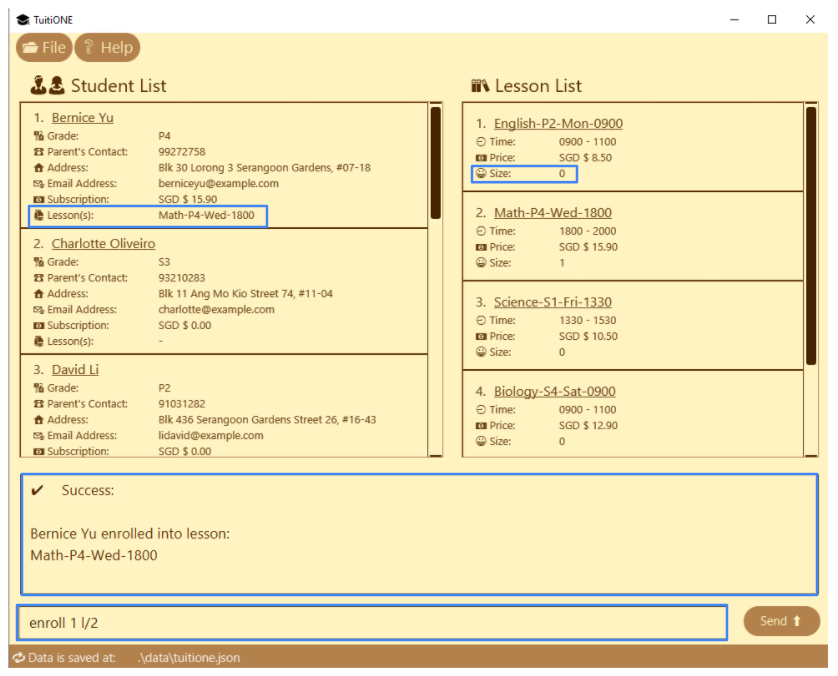
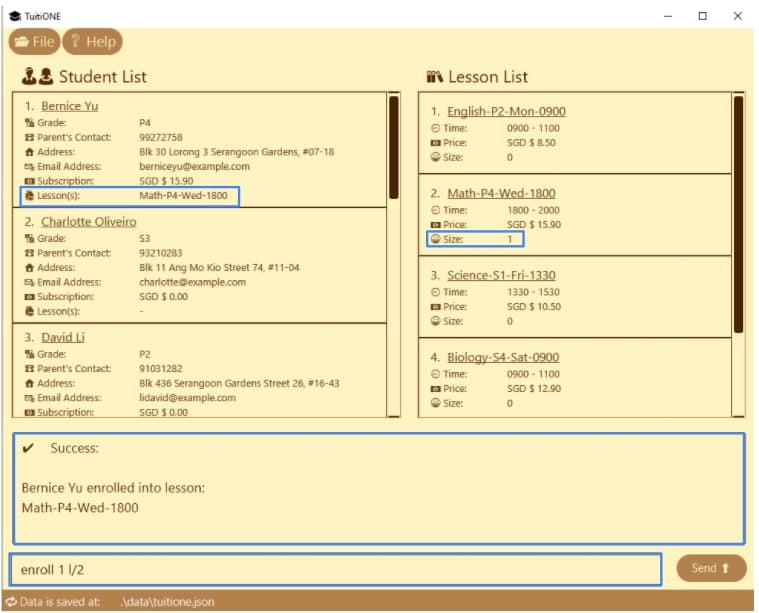
Image update and label

Changed region(s): [[0.0, 0.0, 1.0, 1.0]]

diff --git a/docs/UserGuide.md b/docs/UserGuide.md
@@ -38,7 +38,7 @@ If you are interested, jump to [Quick start](#quick-start) to learn how to start
   _Note how the app contains some sample data_.<br>
 
    ![Ui](images/Ui.png)<br>
-   _Image: **TuitiONE** upon loading for the first time._<br>
+   <center><i>Image: <b>TuitiONE</b> upon loading for the first time.<br></i></center>
 
 6. Type the command in the command box and press Enter to execute it. e.g. typing **`help`** and pressing Enter will open the help window.<br>
 
@@ -113,6 +113,7 @@ The [Command summary](#command-summary) lists a table with all the commands pres
 This section presents the various elements in our **TuitiONE** application.
 
 ![Result of `list`](images/UserGuideImage/default.png)
+<center><i>Image: Layout of <b>TuitiONE</b>.<br></i></center>
 
 **No.** | **Section** | **Description**
 --------|-------------|----------------
@@ -123,6 +124,8 @@ This section presents the various elements in our **TuitiONE** application.
 5 | Command input box | Here is where you type your commands to run in the application.
 6 | Send button | A button that helps submit your input command to run. Using the `Enter`-key on your keyboard after typing in the **Command input box** performs the same job here.
 7 | Storage file indicator | This portion displays the location of your saved **TuitiONE** data file in your device.
+
+<center><i>Table: <b>Legend of TuitiONE</b>.<br></i></center>
 
 ## **Features**
 
@@ -168,6 +171,8 @@ Command Format: `list`
 
 ![Result of `list`](images/UserGuideImage/list.png)
 
+<center><i>Image: Expected output of <code>list</code> command.<br></i></center>
+
 Upon entering the `list` command, both student and lesson panels will be updated to show all the students and lessons present.
 
 #### Filtering of list: `filter`
@@ -196,6 +201,8 @@ Example(s):
 
 ![Result of `filter`](images/UserGuideImage/filter.png)
 
+<center><i>Image: Expected output of <code>filter g/P5 s/Science</code> command.<br></i></center>
+
 ### Managing Students
 
 #### Adding a student: `add`
@@ -217,6 +224,7 @@ Example(s):
 * `add n/Betsy Crowe p/91234567 e/bc@gmail.com a/Bleecker street, block 123, #01-01 g/S5 r/foreign student`
 
 ![Outcome of `add`](images/UserGuideImage/add.png)
+<center><i>Image: Expected output of <code>add</code> command.<br></i></center>
 
 #### Locating students by name: `find`
 
@@ -244,6 +252,7 @@ Example(s):
 * `find alex david` returns `Alex Yeoh`, `David Li`<br>
 
 ![Result of `find alex`](images/UserGuideImage/find.png)
+<center><i>Image: Expected output of <code>find tan</code> command.<br></i></center>
 
 #### Deleting a student : `delete`
 
@@ -268,6 +277,8 @@ Example(s):
 * `find Betsy` followed by `delete 1` deletes the 1st student in the results of the `find` command.
 
 ![Outcome of `delete`](images/UserGuideImage/delete.png)
+
+<center><i>Image: Expected output of <code>delete 1</code> command.<br></i></center>
 
 #### Editing a student : `edit`
 
@@ -307,6 +318,8 @@ Example(s):
 
 ![Outcome of `edit 2 r/discounted`](images/UserGuideImage/edit.png)
 
+<center><i>Image: Expected output of <code>edit</code> command.<br></i></center>
+
 #### Enrolling a student from lesson: `enroll`
 
 Enroll a specified student to a given TuitiONE lesson.
@@ -334,9 +347,11 @@ Command Format: `enroll STUDENT_INDEX l/LESSON_INDEX`
 
 Example(s):
 
-* `enroll 1 l/1` will enroll the student indexed at `1` in the displayed student list to the lesson indexed at `1` in the displayed lesson list.
+* `enroll 1 l/2` will enroll the student indexed at `2` in the displayed student list to the lesson indexed at `2` in the displayed lesson list.
 
-![Outcome of `enroll 1 l/1`](images/UserGuideImage/enroll.png)
+![Outcome of `enroll 1 l/2`](images/UserGuideImage/enroll.png)
+
+<center><i>Image: Expected output of <code>enroll 1 l/2</code> command.<br></i></center>
 
 #### Unenrolling a student from lesson: `unenroll`
 
@@ -359,6 +374,8 @@ Example(s):
 * `unenroll 1 l/1` will unenroll the student indexed `1` in the displayed student list from the lesson indexed at `1` in the displayed lesson list.
 
 ![Outcome of `unenroll 1 l/1`](images/UserGuideImage/unenroll.png)
+
+<center><i>Image: Expected output of <code>unenroll 1 l/1</code> command.<br></i></center>
 
 ### Managing Lessons
 
@@ -390,6 +407,8 @@ Example(s):
 
 ![Outcome of `add-l`](images/UserGuideImage/add-l.png)
 
+<center><i>Image: Expected output of <code>add-l</code> command.<br></i></center>
+
 #### Deleting a lesson: `delete-l`
 
 Deletes a lesson from the TuitiONE.
@@ -410,6 +429,8 @@ Example(s):
 
 ![Outcome of `delete-l`](images/UserGuideImage/delete-l.png)
 
+<center><i>Image: Expected output of <code>delete-l 1</code> command.<br></i></center>
+
 #### Viewing of lesson roster: `roster`
 
 Shows you the student roster of a specified lesson in the student panel. The names of the students will also be displayed in the result panel.
@@ -429,6 +450,8 @@ Examples:
 
 ![Outcome of `roster 1`](images/UserGuideImage/roster.png)
 
+<center><i>Image: Expected output of <code>roster 1</code> command.<br></i></center>
+
 ### Others
 
 #### Clearing all entries : `clear`
@@ -444,6 +467,8 @@ Command Format: `clear`
 Using this command removes all data from TuitiONE. Only use this command if you want to reset all information on the application and start anew.
 
 ![Outcome of `clear`](images/UserGuideImage/clear.png)
+
+<center><i>Image: Expected output of <code>clear</code> command.<br></i></center>
 
 </div>
 
